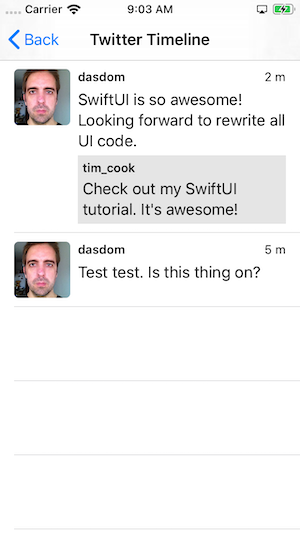
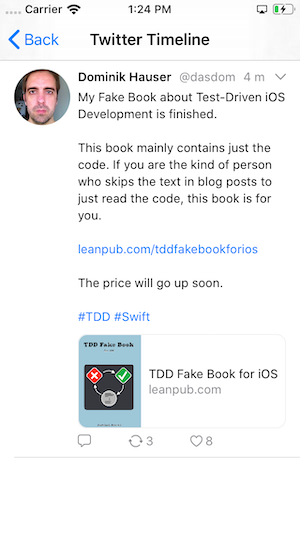
Improve twitter feed view

diff --git a/SwiftUIExperiments/Experiments/Twitter/TwitterTimeline.swift b/SwiftUIExperiments/Experiments/Twitter/TwitterTimeline.swift
@@ -5,25 +5,31 @@
 import SwiftUI
 
 struct TwitterTimeline : View {
-  let tweets = [Tweet(avatar: Image("avatar"),
-                      handle: "dasdom",
-                      time: Date(timeIntervalSinceNow: -2.0 * 60),
-                      tweetBody: "SwiftUI is so awesome! Looking forward to rewrite all UI code.",
-                      quotedTweet: Tweet(avatar: Image("dasdom"),
-                                         handle: "tim_cook",
-                                         time: Date(timeIntervalSinceNow: -2.0 * 60 * 60),
-                                         tweetBody: "Check out my SwiftUI tutorial. It's awesome!")),
-                Tweet(avatar: Image("avatar"),
-                      handle: "dasdom",
-                      time: Date(timeIntervalSinceNow: -5.0 * 60),
-                      tweetBody: "Test test. Is this thing on?")]
+  let tweets = [
+//    Tweet(avatarImageName: "avatar",
+//          username: "Dominik Hauser",
+//          handle: "dasdom",
+//          time: Date(timeIntervalSinceNow: -2.0 * 60.0),
+//          tweetBody: "My Fake Book about Test-Driven iOS Development is finished.\n\nThis book mainly contains just the code. If you are the kind of person who skips the text in blog posts to just read the code, this book is for you."),
+    Tweet(avatarImageName: "avatar",
+          username: "Dominik Hauser",
+          handle: "dasdom",
+          time: Date(timeIntervalSinceNow: -2.0 * 60.0),
+          tweetBody: [TweetBodyPart(text: "My Fake Book about Test-Driven iOS Development is finished.\n\nThis book mainly contains just the code. If you are the kind of person who skips the text in blog posts to just read the code, this book is for you.\n\n", type: .text),
+                      TweetBodyPart(text: "leanpub.com/tddfakebookforios", type: .link),
+                      TweetBodyPart(text: "\n\nThe price will go up soon.\n\n", type: .text),
+                      TweetBodyPart(text: "#TDD", type: .hashtag),
+                      TweetBodyPart(text: " ", type: .text),
+                      TweetBodyPart(text: "#Swift", type: .hashtag)
+      ])
+  ]
   
   var body: some View {
     List {
       ForEach(tweets.identified(by: \.id)) { tweet in
         TweetRow(tweet: tweet)
       }
-    }
-    .navigationBarTitle(Text("Twitter Timeline"), displayMode: .inline)
+      }
+      .navigationBarTitle(Text("Twitter Timeline"), displayMode: .inline)
   }
 }

diff --git a/SwiftUIExperiments/Experiments/Twitter/TweetRow.swift b/SwiftUIExperiments/Experiments/Twitter/TweetRow.swift
@@ -10,53 +10,55 @@ struct TweetRow : View {
   
   var body: some View {
     HStack(alignment: .top) {
-      tweet.avatar
+      Image(tweet.avatarImageName)
         .resizable()
         .aspectRatio(contentMode: .fill)
+        .clipShape(Circle())
         .frame(minWidth: 0, maxWidth: 60, minHeight: 0, maxHeight: 60)
-        .cornerRadius(5)
       
       VStack(alignment: .leading, spacing: 5) {
         HStack {
-          Text(tweet.handle)
+          Text(tweet.username)
             .font(.footnote)
             .bold()
           
-          Spacer()
+          Text("@\(tweet.handle)")
+            .font(.footnote)
+            .foregroundColor(.gray)
           
           Text(tweet.timeString())
             .font(.footnote)
+            .foregroundColor(.gray)
+          
+          Spacer()
+          
+          Image(systemName: "chevron.down")
+            .font(.footnote)
+            .foregroundColor(.gray)
         }
         
         Group {
-          Text(tweet.tweetBody)
-            .lineLimit(nil)
-            .font(.body)
-          //            .fontWeight(.light)
           
-          if tweet.quotedTweet != nil {
-            VStack(alignment: .leading, spacing: 3) {
-              HStack {
-              Text(tweet.quotedTweet!.handle)
-                .font(.footnote)
-                .bold()
-                
-                Spacer()
-              }
-              
-              Text(tweet.quotedTweet!.tweetBody)
-                .lineLimit(nil)
-                .font(.body)
-              
-              }
-              .padding(5)
-              .frame(minWidth: 0, maxWidth: .infinity)
-              .background(Color(white: 0.9))
+          TweetBody(tweet: tweet)
+          
+          HStack(spacing: 40) {
+            Image(systemName: "bubble.left")
+            
+            HStack(spacing: 3) {
+              Image(systemName: "arrow.2.circlepath")
+              Text("3")
+            }
+            
+            HStack(spacing: 3) {
+              Image(systemName: "heart")
+              Text("8")
+            }
           }
+            .font(.footnote)
+            .foregroundColor(.gray)
         }
       }
       }
       .padding([.top, .bottom], 3)
   }
 }
-

diff --git a/SwiftUIExperiments/Experiments/Twitter/Tweet.swift b/SwiftUIExperiments/Experiments/Twitter/Tweet.swift
@@ -3,22 +3,46 @@
 //
 
 import Foundation
-import SwiftUI
+
+enum TweetBodyStyle {
+  case text
+  case mention
+  case link
+  case hashtag
+}
+
+struct TweetBodyPart {
+  let id = UUID()
+  let text: String
+  let type: TweetBodyStyle
+}
 
 class Tweet {
   let id = UUID()
-  let avatar : Image
+  let avatarImageName : String
+  let username: String
   let handle: String
   let time: Date
-  let tweetBody: String
+  let tweetBodyParts: [TweetBodyPart]
   let quotedTweet: Tweet?
   
-  init(avatar: Image, handle: String, time: Date, tweetBody: String, quotedTweet: Tweet? = nil) {
+  init(avatarImageName: String, username: String, handle: String, time: Date, tweetBody: String, quotedTweet: Tweet? = nil) {
     
-    self.avatar = avatar
+    self.avatarImageName = avatarImageName
+    self.username = username
     self.handle = handle
     self.time = time
-    self.tweetBody = tweetBody
+    self.tweetBodyParts = [TweetBodyPart(text: tweetBody, type: .text)]
+    self.quotedTweet = quotedTweet
+  }
+  
+  init(avatarImageName: String, username: String, handle: String, time: Date, tweetBody: [TweetBodyPart], quotedTweet: Tweet? = nil) {
+    
+    self.avatarImageName = avatarImageName
+    self.username = username
+    self.handle = handle
+    self.time = time
+    self.tweetBodyParts = tweetBody
     self.quotedTweet = quotedTweet
   }
   
@@ -26,4 +50,5 @@ class Tweet {
     let minutes = -Int(time.timeIntervalSinceNow/60.0)
     return "\(minutes) m"
   }
+  
 }

diff --git a/SwiftUIExperiments/Experiments/Twitter/TweetBody.swift b/SwiftUIExperiments/Experiments/Twitter/TweetBody.swift
@@ -1,0 +1,57 @@
+//  Created by dasdom on 06.07.19.
+//  Copyright © 2019 dasdom. All rights reserved.
+//
+
+import SwiftUI
+
+struct TweetBody : View {
+  
+  let tweet: Tweet
+  
+  private func text() -> Text {
+    let text = tweet.tweetBodyParts.reduce(Text("").color(.black)) { (text, part) -> Text in
+      text + Text(part.text).color(partColor(part: part))
+    }
+    
+    return text
+  }
+  
+  private func partColor(part: TweetBodyPart) -> Color {
+    switch part.type {
+    case .link:
+      fallthrough
+    case .hashtag:
+      return .blue
+    default:
+      return .black
+    }
+  }
+  
+  var body: some View {
+    
+    VStack {
+      text()
+        .lineLimit(nil)
+        .font(.footnote)
+    
+      HStack {
+        Image("bookcover_small")
+          .resizable()
+          .aspectRatio(contentMode: .fit)
+        
+        VStack(alignment: .leading) {
+          Text("TDD Fake Book for iOS")
+            .font(.footnote)
+          
+          Text("leanpub.com")
+            .font(.footnote)
+            .color(.gray)
+        }
+        .padding([.trailing], 8)
+      }
+      .cornerRadius(10)
+      .border(Color(white: 0.95), width: 1, cornerRadius: 10)
+      .frame(minWidth: 0, maxWidth: .infinity)
+    }
+  }
+}

diff --git a/SwiftUIExperiments/Experiments/Instagram/InstagramFeed.swift b/SwiftUIExperiments/Experiments/Instagram/InstagramFeed.swift
@@ -14,7 +14,7 @@ struct InstagramFeed : View {
         .listRowInsets(EdgeInsets(top: 10, leading: 0, bottom: 10, trailing: 0))
       }
       .navigationBarTitle(Text("Instagram"), displayMode: .inline)
-      .navigationBarItems(leading: Image(systemName: "camera").font(font), trailing:
+      .navigationBarItems(trailing:
         HStack(spacing: 16) {
           Group {
             Image(systemName: "tv")
